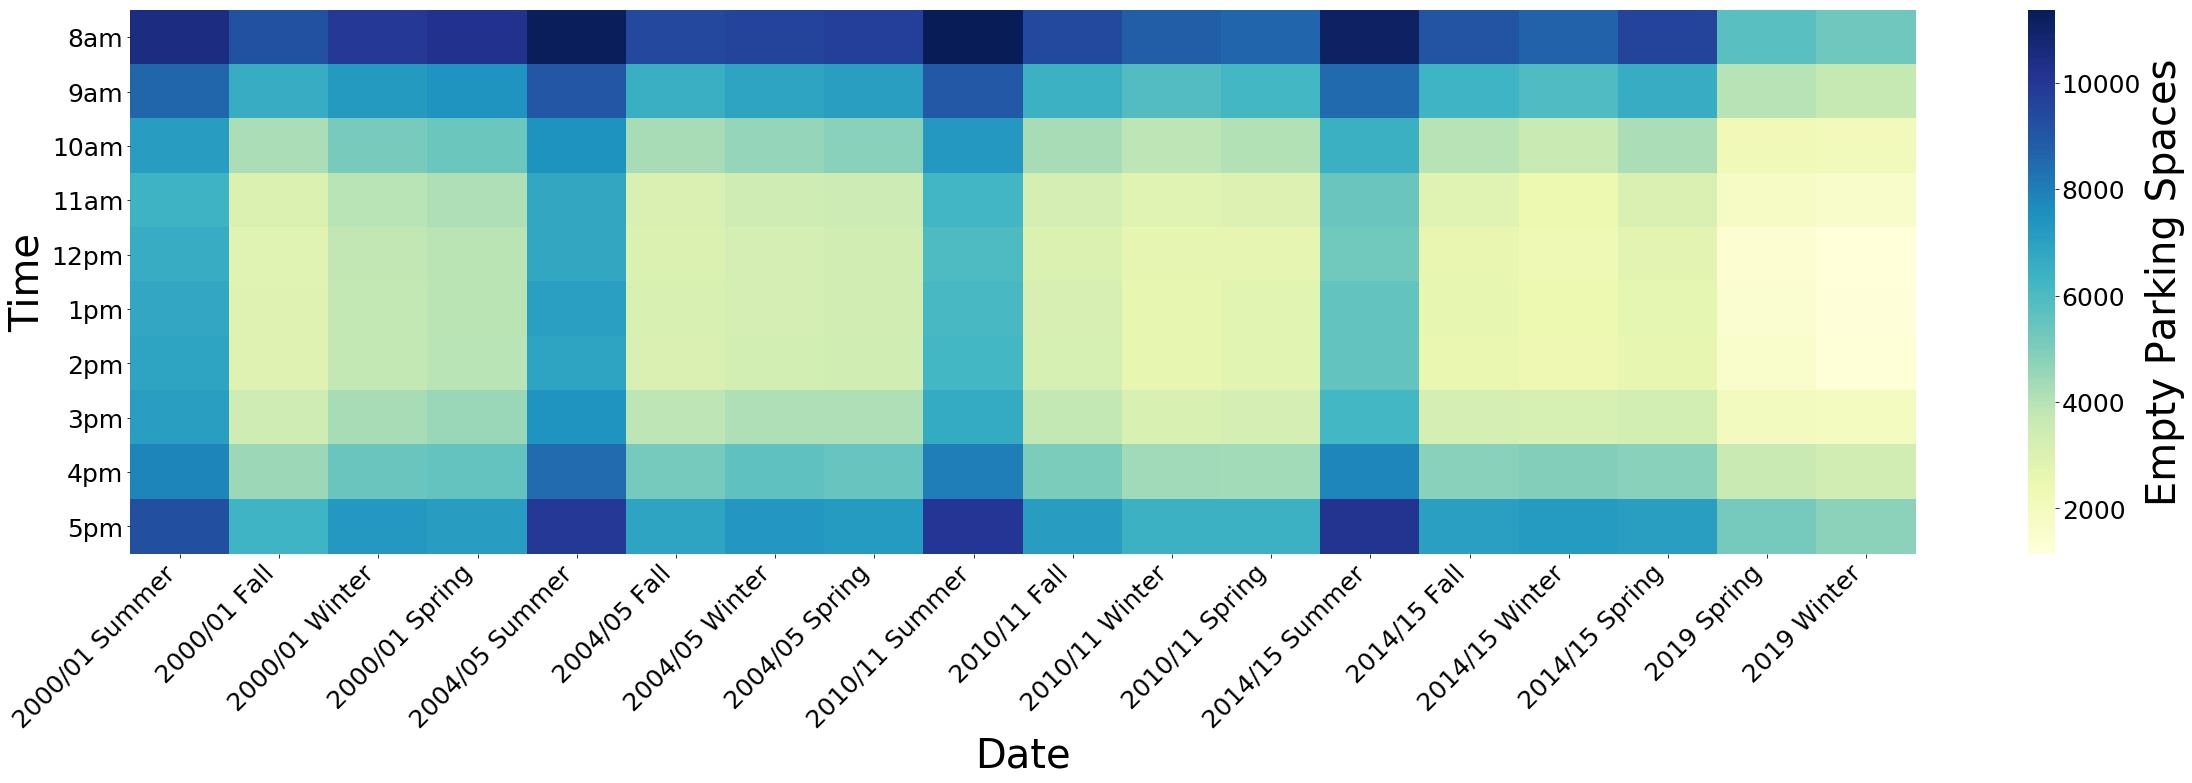
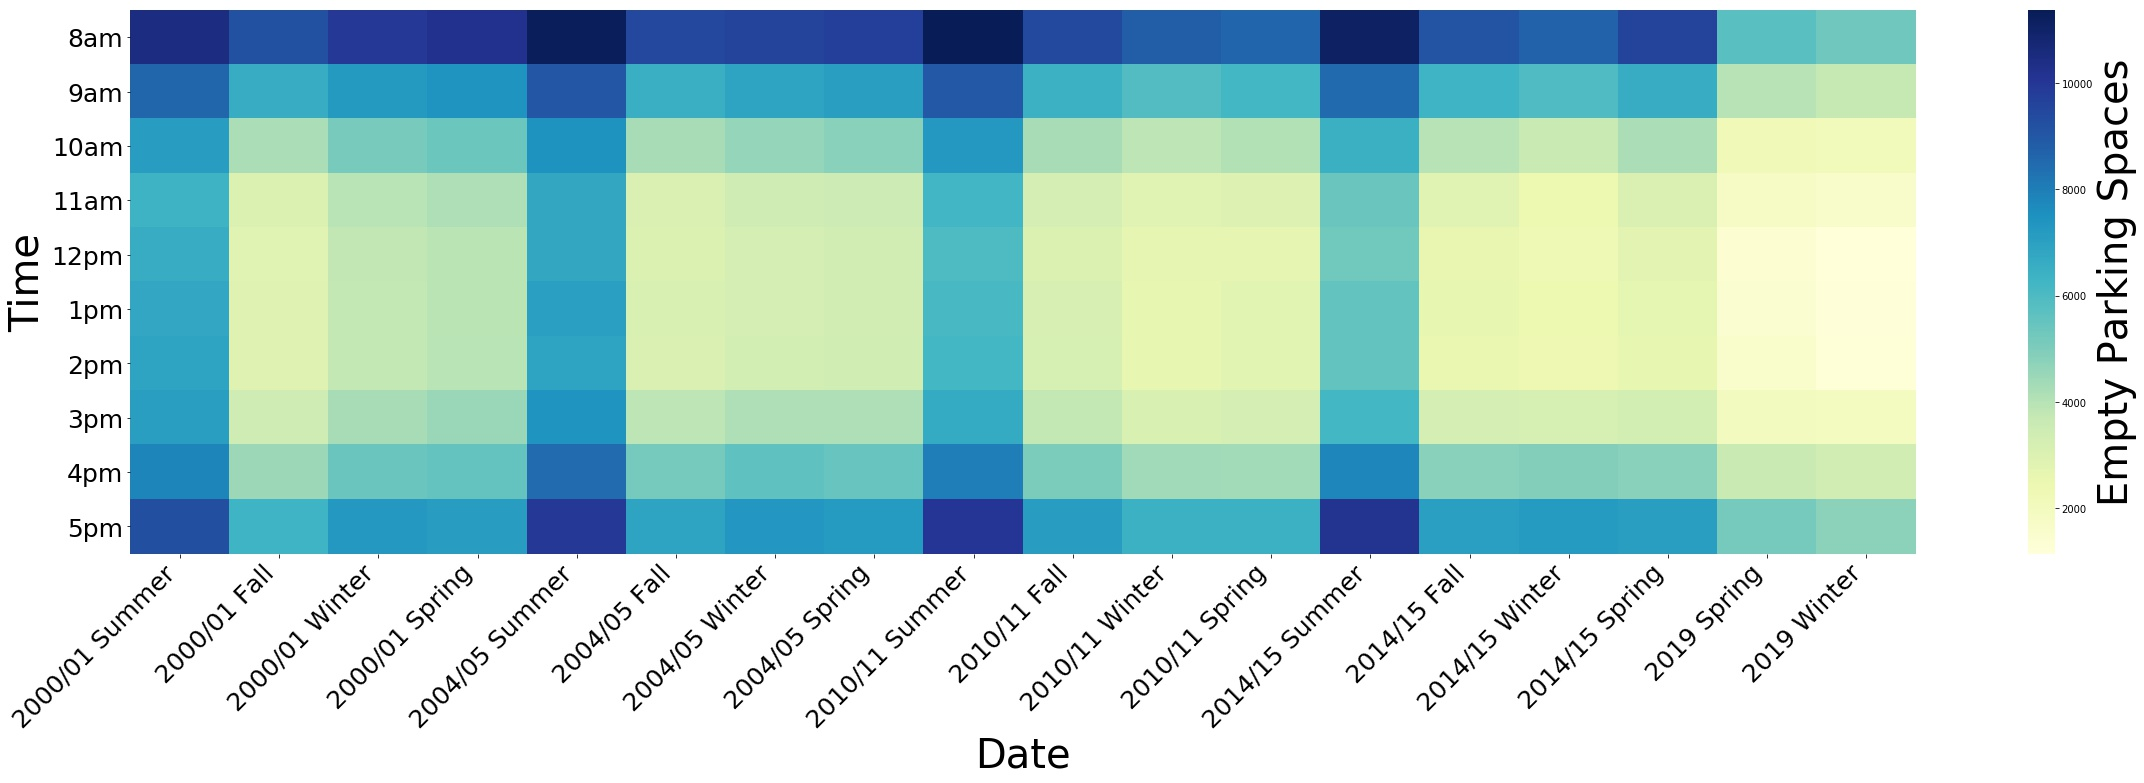
Move emptyspaces_heatmap method to codes folder and get the figure into the visualization file.

diff --git a/codes/emptyspaces_heatmap.py b/codes/emptyspaces_heatmap.py
@@ -1,0 +1,154 @@
+import matplotlib.pyplot as plt
+import seaborn as sns
+import pandas as pd
+import os
+from xcel_to_df import xcel_to_df, combine_lists, needs_formatting, reformat_multiple_columns
+
+def find_19_dataframe(file_prefix, quarter):
+    '''
+
+    This function is used to get 2019 dataframe into the format
+    previous dataftame is and use it to get the heatmap
+
+    :param file_prefix: str, the prefix of our file
+    :param quarter: str, the quarter of this data
+    :return: dict, a dict of dataframe denotes 2019 Spring and Winter datas
+    '''
+
+    assert isinstance(file_prefix, str)
+    assert isinstance(quarter, str)
+
+    prefix = '../excel_data/2019_data/'
+    files = os.listdir(prefix)
+    
+    dict_list = []
+    
+    for file in files:
+        if file.startswith(file_prefix):
+
+            # Using methods in the xcel_to_df file to get the original dataframe
+            df = pd.read_excel(prefix + file)
+            days = ['Mon', 'Tue', 'Wed', 'Thu', 'Fri']
+            times= ['8', '10', '12', '2']
+            col_names = combine_lists(days, times)
+            if needs_formatting(df):
+                df = reformat_multiple_columns(df, col_names, start=3, end=7)
+                print('Fixed formatting')
+
+            # Modify the original dataframe to format it to the same format as we
+            # use in the previous dataframe
+            df_19 = df.drop(columns=['Structure', 'Lot'])
+            positions = ['8am', '10am', '12pm', '2pm']
+
+            df_19['8am'] = [0 for i in range(0, len(df_19))]
+            df_19['9am'] = [0 for i in range(0, len(df_19))]
+            df_19['10am'] = [0 for i in range(0, len(df_19))]
+            df_19['11am'] = [0 for i in range(0, len(df_19))]
+            df_19['12pm'] = [0 for i in range(0, len(df_19))]
+            df_19['1pm'] = [0 for i in range(0, len(df_19))]
+            df_19['2pm'] = [0 for i in range(0, len(df_19))]
+            df_19['3pm'] = [0 for i in range(0, len(df_19))]
+            df_19['4pm'] = [0 for i in range(0, len(df_19))]
+            df_19['5pm'] = [0 for i in range(0, len(df_19))]
+
+            for time, pos in zip(times, positions):
+                for day in days:
+                    df_19[pos] += df_19[day + '-' + time].astype(float) / 5.0
+                    df_19 = df_19.drop(columns=[day + '-' + time])
+
+            # For the missing hours, we use the average and the ratio to predict it
+            df_19['9am'] = (df_19['8am'] + df_19['10am']) / 2.0
+            df_19['11am'] = (df_19['10am'] + df_19['12pm']) / 2.0
+            df_19['1pm'] = (df_19['12pm'] + df_19['2pm']) / 2.0
+            df_19['3pm'] = (df_19['10am']) * 0.9
+            df_19['4pm'] = (df_19['9am']) * 0.9
+            df_19['5pm'] = (df_19['8am']) * 0.9
+
+            df_19 = df_19.sum()
+
+            df_19['date'] = '2019 ' + quarter
+            df_19['year'] = '2019'
+            df_new_dict = df_19.to_dict()
+            df_new_dict.pop('Total Spaces')
+
+            # We put all A,B,S,V parking data into one the dataframe dictionary
+            dict_list.append(df_new_dict)
+    return dict_list
+
+def get_df(filename):
+    '''
+
+    Use the find_19_dataframe method to get the real corresponding
+    dataframe for spring and winter data of 2019
+
+    :param filename: str, the file we want to extract data
+    :return: dataframe, list, the useful dataframe and also a list to represent our quarters' order
+    '''
+
+    assert isinstance(filename, str)
+
+
+    file_list = ['Sp19_wk2', 'Win19_wk2']
+    quarter_list = ['Spring', 'Winter']
+
+
+    dict_list = [find_19_dataframe(x, y) for x, y in zip(file_list, quarter_list)]
+
+    # Combine A,B,S,V data of our dictionary into one total dataframe
+    data_list = []
+    for i in dict_list:
+        for j in i[0]:
+            if isinstance(i[0][j], str):
+                continue
+            for idx in range(1, len(i)):
+                i[0][j] += i[idx][j]
+        data_list.append(i[0])
+
+    # Preprocess the previous years dataframe and choose just 2000,2004,2010,2014 and 2019 data
+    prefix = '../csv_data/University-Wide/'
+    df_University_Wide = pd.read_csv(prefix + filename)
+    df_useful = df_University_Wide
+    df_useful['date'] = df_useful['year'] + " " + df_useful['quarter']
+    remain = ['8am','9am','10am','11am','12pm','1pm','2pm','3pm','4pm','5pm','date','year']
+    df_useful = df_useful[remain]
+
+    for data in data_list:
+        df_useful.loc[len(df_useful) + 1] = data
+    s = ['8am','9am','10am','11am','12pm','1pm','2pm','3pm','4pm','5pm']
+    df_temp = df_useful.drop(columns = s, axis = 1)
+    df_temp = df_temp.loc[(df_temp.year == '2000/01') | (df_temp.year == '2004/05') | (df_temp.year == '2010/11') | (df_temp.year == '2014/15') | (df_temp.year == '2019')]
+    order = df_temp['date'].to_list()
+
+    # Makes everyday's times as the new columns of our new dataframe
+    df_temp = df_temp.join(df_useful[s].stack().reset_index(level = 1, drop = True).rename('empty_spaces'))
+    df_temp = df_temp.reset_index(drop = True)
+
+    time_list = [s[i % 10] for i in range(0,len(df_temp))]
+    df_temp['time'] = time_list
+
+    return df_temp,order
+
+def get_figure():
+    '''
+
+    This method is used to pick up useful data from our dataframe and then
+    plot the empty spaces heatmap and save it
+
+    :return: None
+    '''
+    s = ['8am', '9am', '10am', '11am', '12pm', '1pm', '2pm', '3pm', '4pm', '5pm']
+    df_temp,order = get_df('University_of_California,_San_Diego__All_Parking_Spaces_Combined.csv')
+    spaces_data =  df_temp.pivot('time','date','empty_spaces').reindex(s, columns = order)
+    f, ax = plt.subplots(figsize=(40, 10))
+    ax =sns.heatmap(spaces_data, cmap='YlGnBu',ax=ax,cbar_kws={'label': 'Empty Parking Spaces'})
+    ax.figure.axes[-1].yaxis.label.set_size(40)
+    label_y = ax.get_yticklabels()
+    plt.setp(label_y, rotation=360, horizontalalignment='right',fontsize = 25)
+    label_x = ax.get_xticklabels()
+    plt.setp(label_x, rotation=45, horizontalalignment='right',fontsize = 25)
+    plt.rcParams['font.size'] = 25
+    plt.xlabel('Date', fontsize = 40)
+    plt.ylabel('Time', fontsize = 40)
+    plt.savefig("../images/empty_spaces_heatmap.jpg", bbox_inches = 'tight')
+    plt.show()
+
